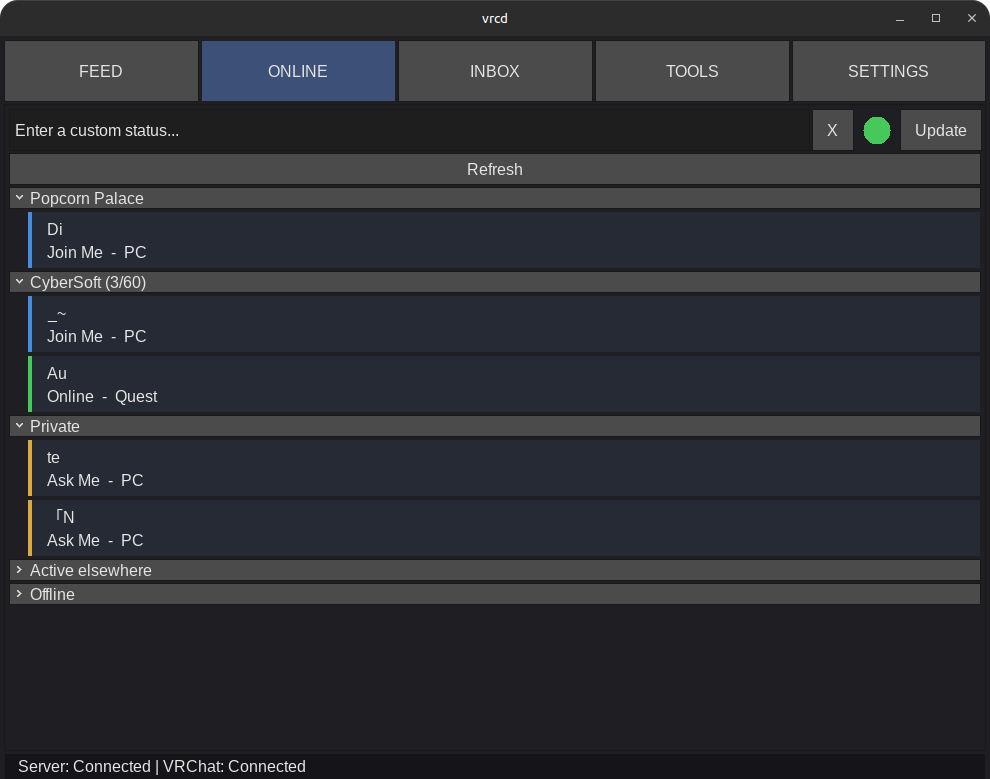
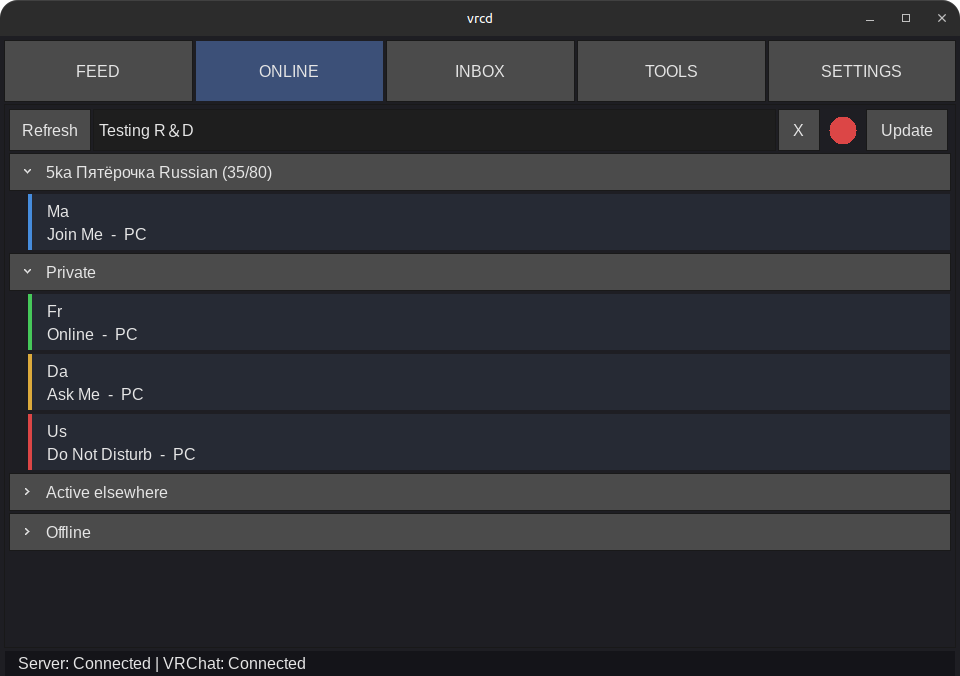
Tweak README.md, bump related projects, update screenshot

Changed region(s): [[0.0, 0.0, 1.0, 0.8388], [0.0, 0.963, 0.3125, 0.9941]]

diff --git a/README.md b/README.md
@@ -1,7 +1,7 @@
 # ![speech bubble logo with D-like lettering](res/vrcd-logo-32.png) vcrd
 
-A little companion suite for VRChat to help you track friend activity, manage photos,
-and receive VR/desktop notifications.
+A little companion suite for VRChat to help you track friend activity,
+inject metadata into photos, and receive VR/desktop notifications.
 
 It features a server-client architecture, to avoid having multiple connections to VRC APIs.
 
@@ -16,18 +16,21 @@ It features a server-client architecture, to avoid having multiple connections t
 > There are plans to fix this.
 
 Client features:
-- Relatively light client using software rendering; Hardware option available
-- VR friendly UI
-- Embed world and player metadata into VRChat photos automatically
-- Strip VRChat and other metadata from VRChat photos
-- VR overlay notifications (XSOverlay/WayVR, OVR Toolkit) and desktop notifications
-- [Drop a Portal](https://dropaport.al/) integration
+- Relatively light client using software rendering; Hardware option available.
+- VR friendly UI.
+- Embed world and player metadata into VRChat photos automatically.
+- Strip VRChat and other metadata from VRChat photos.
+- VR overlay notifications (XSOverlay/WayVR, OVR Toolkit) and desktop notifications.
+- [Drop a Portal](https://dropaport.al/) integration.
 
 Server features:
-- Record incoming VRChat events
-- Event-stream API with 'catch-up' and 'back-fill' actions to know what you missed
+- Record incoming VRChat events.
+- Event-stream API with 'catch-up' and 'back-fill' actions to know what you missed.
 
 Feel free to join the official [VRChat group](https://vrc.group/VRCD.7796) (`VRCD.7796`)!
+
+Related projects:
+- [vrcd-server-container](https://github.com/ArcaneDisgea/vrcd-server-container) by ArcaneDisgea.
 
 ## Screenshots
 
@@ -63,9 +66,6 @@ Targets:
 
 Targets Windows and Linux.
 
-Related projects:
-- [vrcd-server-container](https://github.com/ArcaneDisgea/vrcd-server-container) by ArcaneDisgea.
-
 ## Compiling
 
 See each component's README for dependencies, configuration, and architecture details.
@@ -75,17 +75,19 @@ In short:
 - Server needs libcurl and sqlite static libraries and optionally OpenSSL.
 
 ```bash
-# Build server and client
+# Upgrade dependencies for server and client
+dub upgrade -s
+
+# Build, test, and run server (might be best to setup config first)
+# For more info, see server/README.md
 dub build :server
-dub build :client
-
-# Unit tests
 dub test :server
-dub test :client
+./client/vrcd_server
 
-# Run server, see server/README.md for configuration options
-./server/vrcd_server
-# Run client, see client/README.md for its architecture
+# Build, test, and run client
+# For more info, see client/README.md
+dub build :client
+dub test :client
 ./client/vrcd_client
 ```
 
@@ -93,14 +95,13 @@ See [API.md](./API.md) for server-client API details.
 
 ### Issues
 
-- Using LDC 1.41 on Windows will lead to compiling issues (undefined PAGESIZE in core.thread.fiber)
+- Using LDC 1.41 on Windows will lead to compiling issues: undefined PAGESIZE in core.thread.fiber
 
 # Contributing
 
 I'm unsure how I want to handle contributions at this moment, sorry.
 
-At this time, it's best to write Issues for bugs and feature requests, or start
-a Discussion.
+However, feel free to submit bugs in Issues and feature suggestions in Discussions, thanks.
 
 # Disclaimer
 
